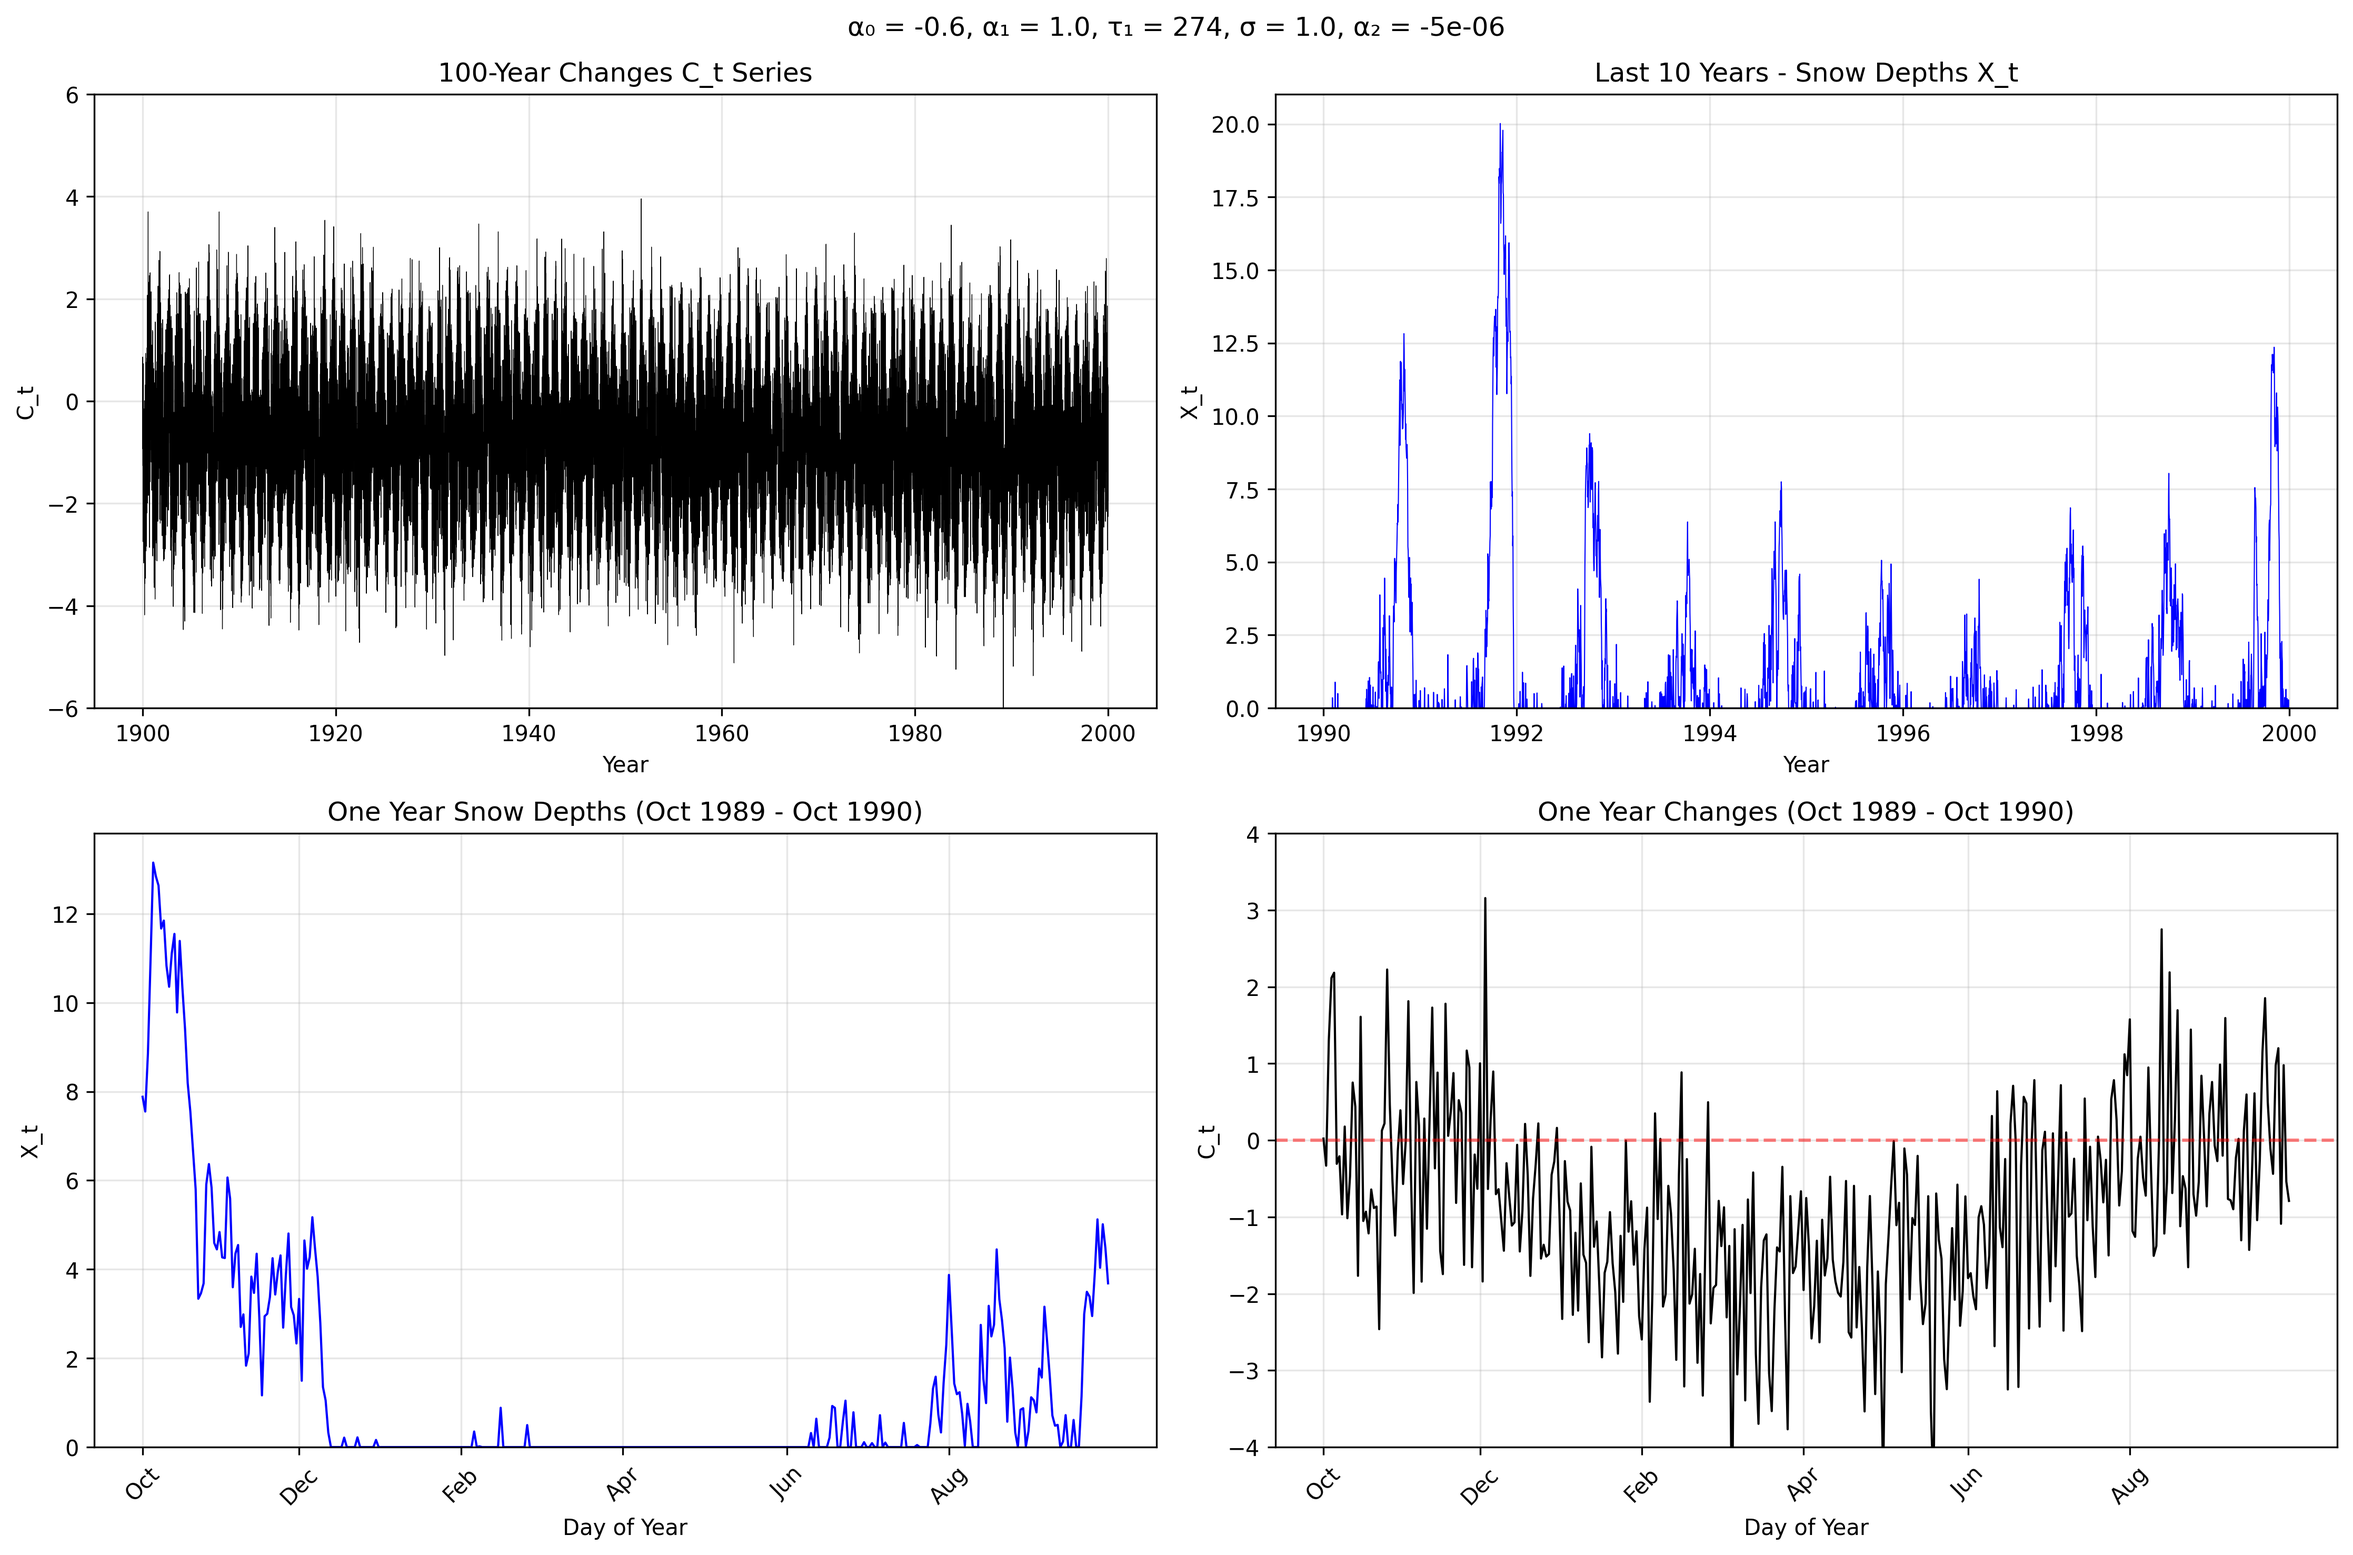
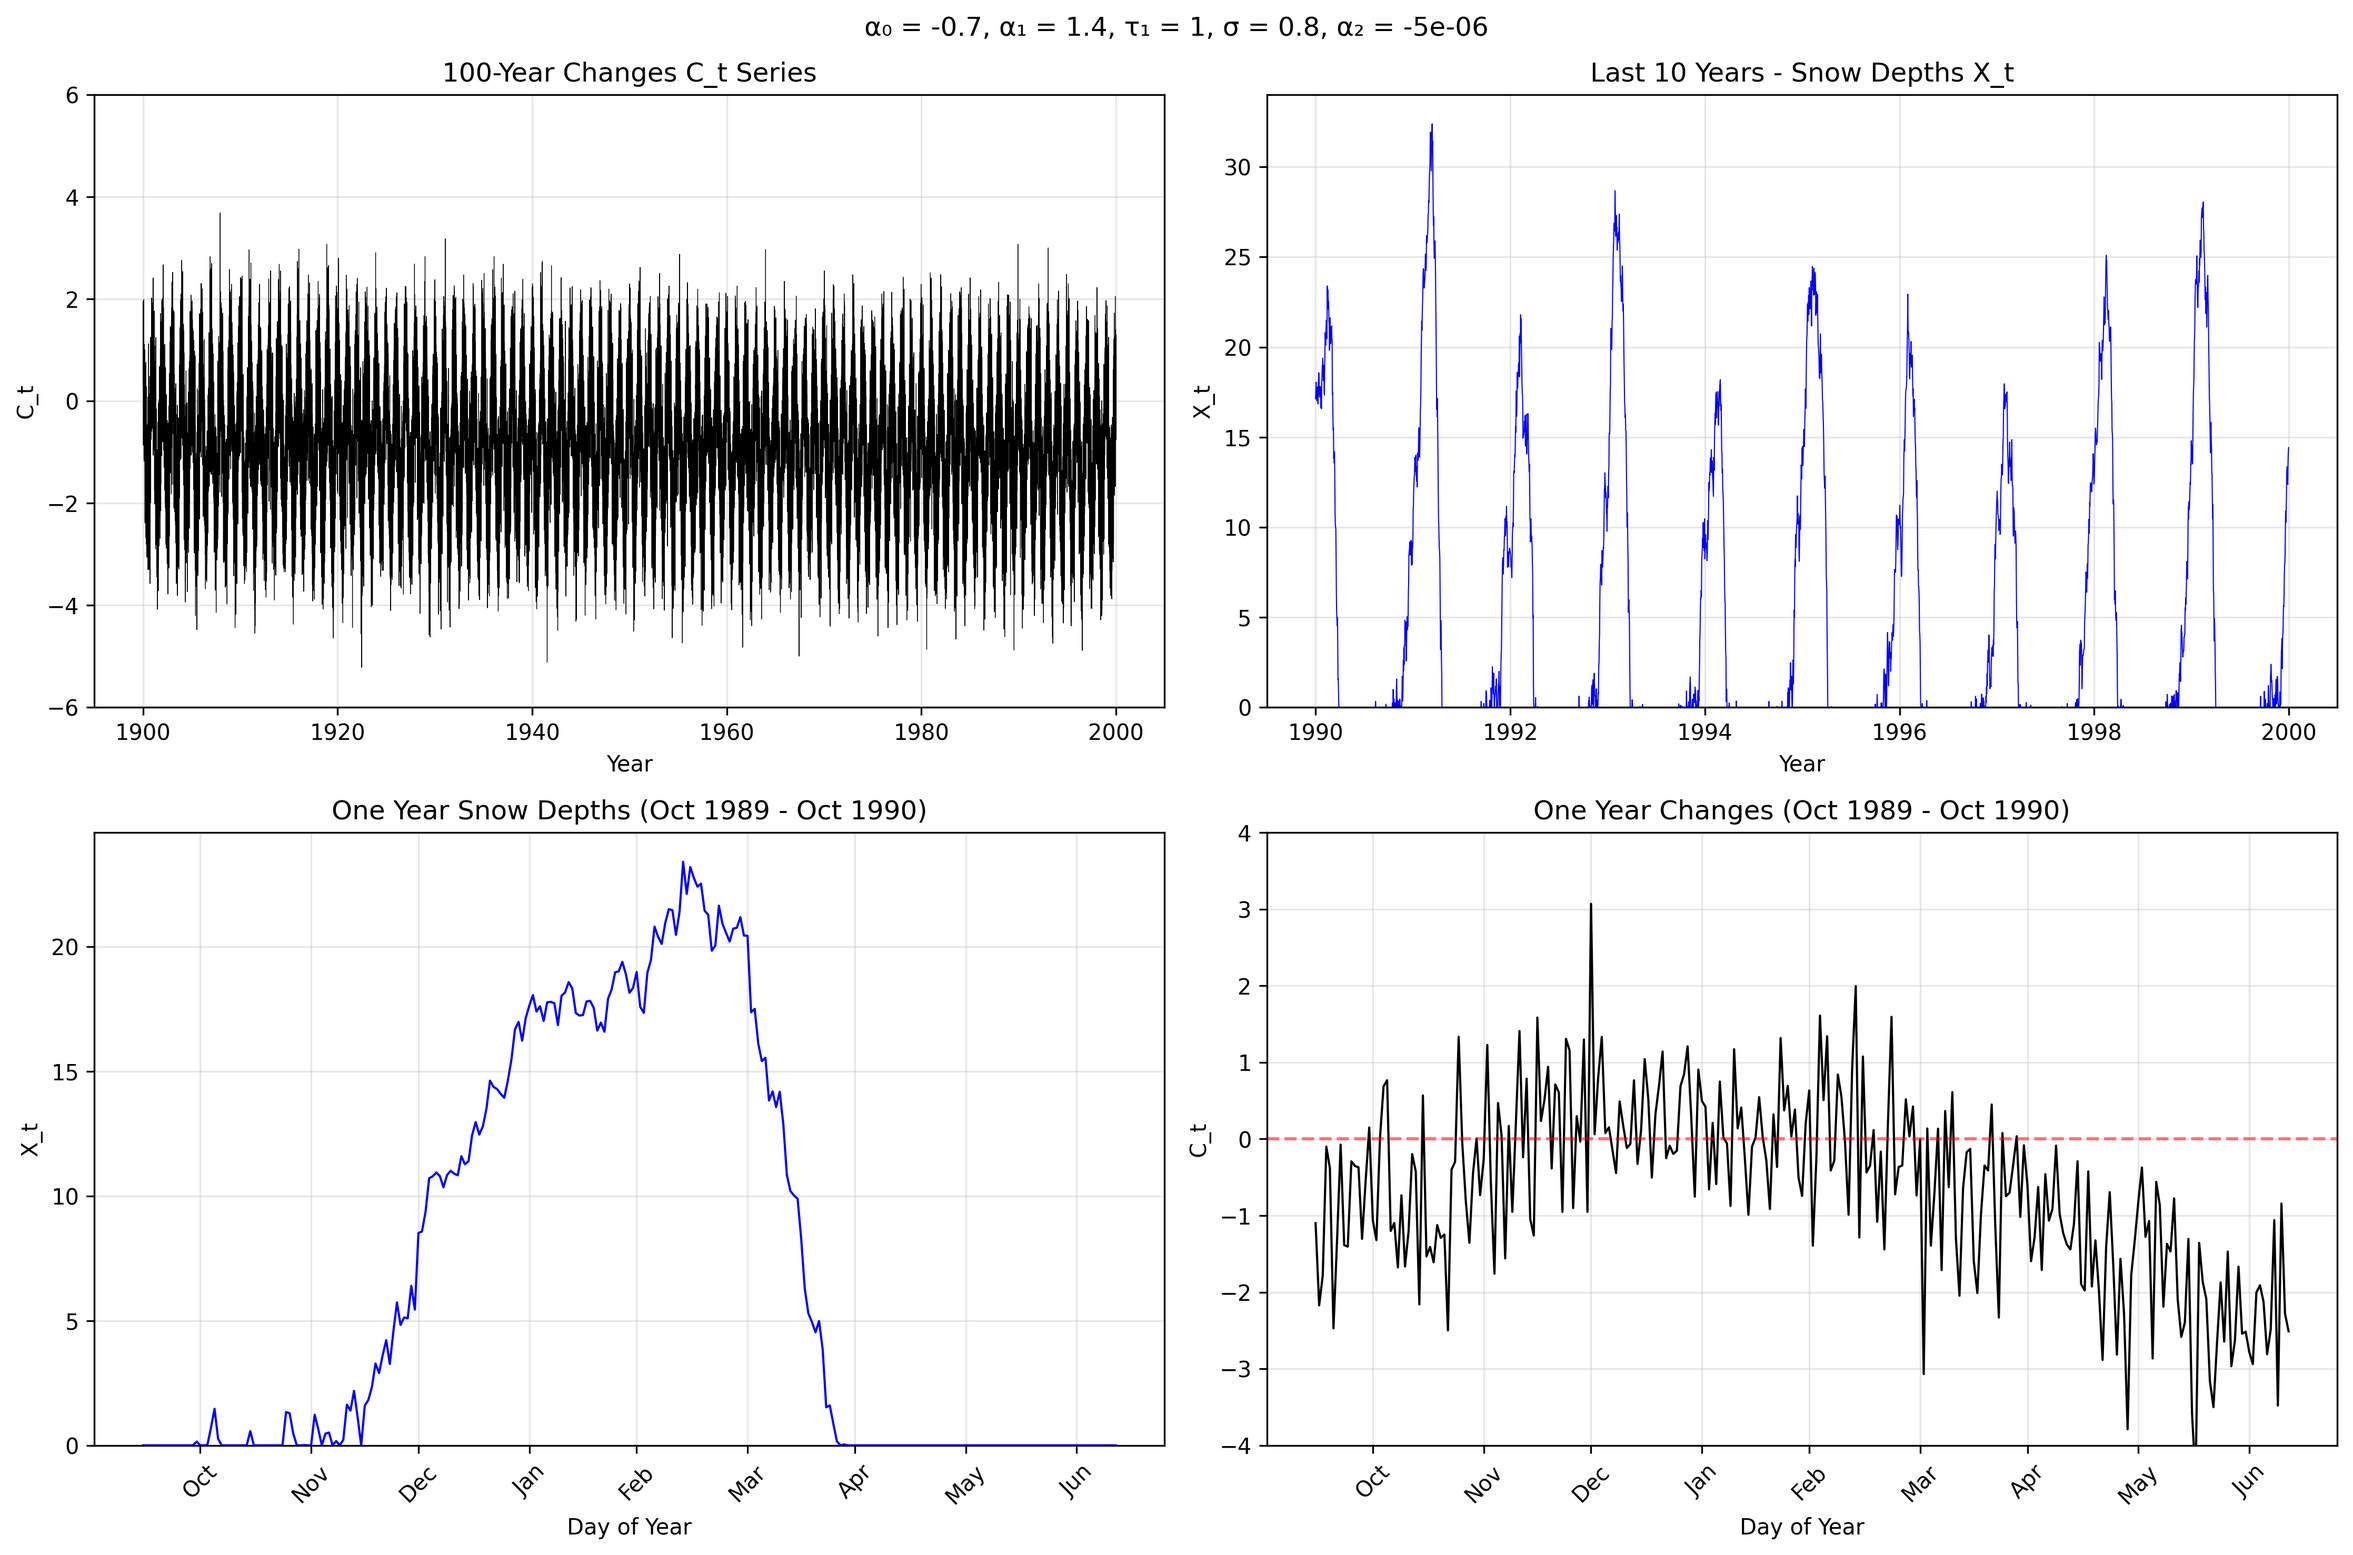
Adjusted parameters to better match data from wrr literature.

diff --git a/paramter_test.py b/paramter_test.py
@@ -24,7 +24,7 @@ def main():
     np.random.seed(42)
     
     # True parameters 'alpha0': -0.6, 'alpha1': 1.0, 'tau1': 274, 'sigma': 1.0, 'alpha2': -0.000005
-    true_params = {'alpha0': -0.6, 'alpha1': 1.0, 'tau1': 274, 'sigma': 1.0, 'alpha2': -0.000005}
+    true_params = {'alpha0': -0.7, 'alpha1': 1.4, 'tau1': 1, 'sigma': 0.8, 'alpha2': -0.000005}
     
     # Generate 100 years of data
     model = LindleySnowModel(**true_params)
@@ -61,8 +61,8 @@ def main():
     
     # Plot 3: One year X_t (Oct to Oct)
     # Start from day 274 of year 90 (1990) to day 273 of year 91 (1991)
-    year_start = 89 * 365 + 274  # Day 274 of year 90 (0-indexed)
-    year_end = year_start + 365   # One full year
+    year_start = 89 * 365 + 258  # Day 258 of (Sep 15) year 90 (0-indexed)
+    year_end = year_start + 273   # To day 166 (June 15) of next year
     
     depths_1yr = depths[year_start:year_end]
     days_in_year = np.arange(1, len(depths_1yr) + 1)
@@ -75,10 +75,10 @@ def main():
     axes[1, 0].set_ylim(bottom=0)
     
     # Add month markers
-    month_starts = [1, 32, 60, 91, 121, 152, 182, 213, 244, 274, 305, 335]
-    month_names = ['Oct', 'Nov', 'Dec', 'Jan', 'Feb', 'Mar', 'Apr', 'May', 'Jun', 'Jul', 'Aug', 'Sep']
-    axes[1, 0].set_xticks(month_starts[::2])
-    axes[1, 0].set_xticklabels(month_names[::2], rotation=45)
+    month_starts = [17, 48, 78, 109, 139, 170, 200, 231, 262]
+    month_names = ['Oct', 'Nov', 'Dec', 'Jan', 'Feb', 'Mar', 'Apr', 'May', 'Jun']
+    axes[1, 0].set_xticks(month_starts)
+    axes[1, 0].set_xticklabels(month_names, rotation=45)
     
     # Plot 4: One year C_t (Oct to Oct)
     changes_1yr = changes[year_start:year_end]
@@ -92,8 +92,8 @@ def main():
     axes[1, 1].axhline(0, color='red', linestyle='--', alpha=0.5)
     
     # Add month markers
-    axes[1, 1].set_xticks(month_starts[::2])
-    axes[1, 1].set_xticklabels(month_names[::2], rotation=45)
+    axes[1, 1].set_xticks(month_starts)
+    axes[1, 1].set_xticklabels(month_names, rotation=45)
     
     # Add parameter values at the top
     param_text = f"α₀ = {true_params['alpha0']}, α₁ = {true_params['alpha1']}, τ₁ = {true_params['tau1']}, σ = {true_params['sigma']}, α₂ = {true_params['alpha2']}"
